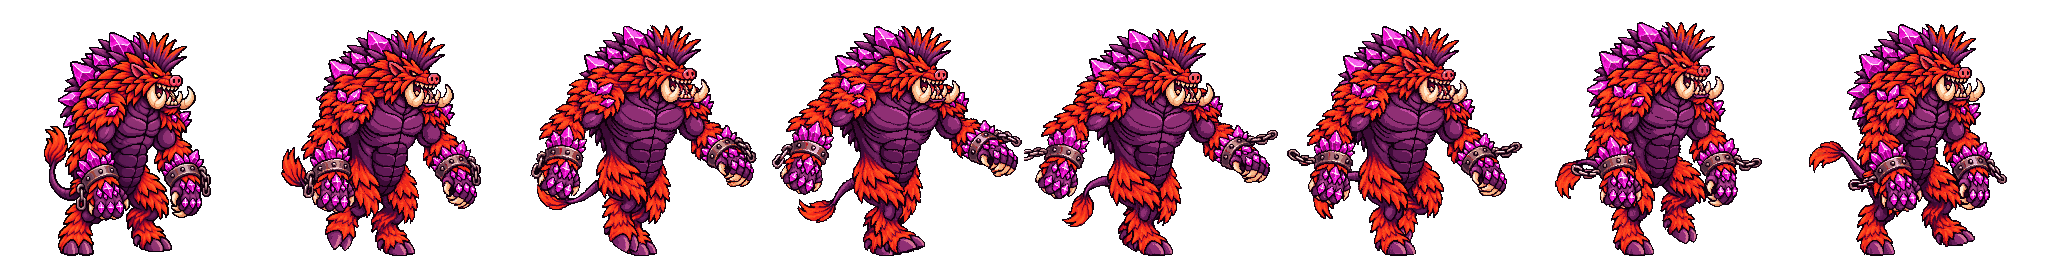
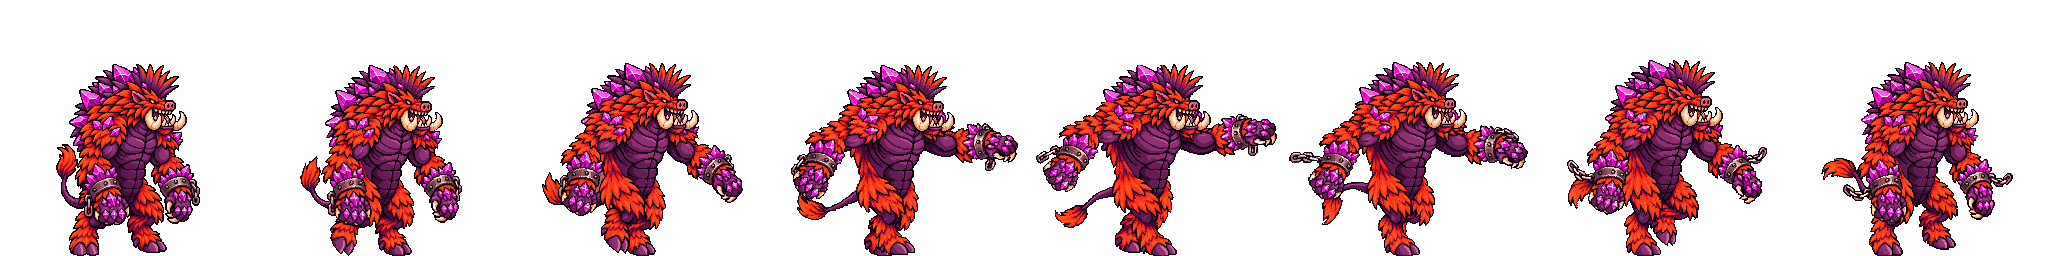
Widen Kaiban Stage 3 swagger: front fist near-horizontal, back fist far behind
The swing was capped by PixelLab's 256px frame: the old strip already
touched both edges at full size. This one is generated from a smaller
144x192 re-sample of the render (x=56, scale 144/256, anchor 128) so the
fists have room: the front fist swings up to nearly horizontal ahead of
the snout and the back one well behind the hip, about 30% more reach
relative to the body, without clipping and holding the three-quarter
view. Drawn at the same size as the idle. Frames 1-3 bottom-aligned
(3px), fill_pinholes filled 60px.

Claude-Session: https://claude.ai/code/session_01SJ9dCw3Kwpo6mPYRbXH7ph

diff --git a/src/presentation.ts b/src/presentation.ts
@@ -53,11 +53,14 @@ const KB2_NATIVE={scale:200/256,anchor:28+128*200/256};
 const KB2_LEFT={scale:200/256,anchor:4+128*200/256};
 // Kaiban Stage 3 strips: the kaiban-s3 base still, a 167x224 upright sprite at x=44 in a 256x256 frame (tall, so raised fists fit).
 const KB3_NATIVE={scale:167/256,anchor:44+128*167/256};
+// Kaiban Stage 3 wide-swing strips: generated from a smaller re-sample of the same render (144x192 at x=56) so swinging fists have
+// room inside PixelLab's 256px frame; drawn at the same size as the full base, so their pixels are about 16% chunkier.
+const KB3_SMALL={scale:144/256,anchor:56+128*144/256};
 // Kaiban Stage 3 form (upright crystal-maned juggernaut with shackled, crystal-studded fists), in progress: idle (breathing, fists and
-// broken chains swaying, tail flicks) and walk (a swagger: fists swing far out front and behind, shoulders roll, chains whip; feet bottom-aligned).
+// broken chains swaying, tail flicks) and walk (a swagger: the front fist swings up to nearly horizontal ahead of the snout, the back fist far behind the hip, shoulders roll, chains whip; feet bottom-aligned).
 // Every other move holds the idle while gameplay timing falls back to the base form. 80 units wide keeps the 167x224 art about 300px
 // tall at the 2.8x Stage 3 scale, a little taller than Mogurodon's Stage 3 since he stands upright.
-const KAIBAN_S3:Form={width:80,anims:{idle:{src:'assets/kaiban-s3-idle.png',frames:8,fps:8,...KB3_NATIVE},walk:{src:'assets/kaiban-s3-walk.png',frames:8,fps:10,...KB3_NATIVE}}};
+const KAIBAN_S3:Form={width:80,anims:{idle:{src:'assets/kaiban-s3-idle.png',frames:8,fps:8,...KB3_NATIVE},walk:{src:'assets/kaiban-s3-walk.png',frames:8,fps:10,...KB3_SMALL}}};
 // Kaiban Stage 2 form, in progress: idle, walk, the heavy, the gorilla overhead-punch light combo (near-fist hammer, far-fist hammer while
 // the near fist stays planted, reared double-fist smash; frame counts and fps match the Stage 1 combo), ranged scoop, grab/carry/throw, the climb set and the Stampede. `borrow`: every move not drawn yet plays the
 // Stage 1 strip.

diff --git a/README.md b/README.md
@@ -61,7 +61,7 @@ Score is earned points minus actual HP damage penalty, including healed damage. 
 
 **Kaiban Stage 2 art (in progress, registered as `stages[2]`):** `kaiban-s2.png` is a 200x135 base at x=28 (scale 200/256, anchor 128), with `kaiban-s2-idle`/`kaiban-s2-walk` 8-frame loops and the climb set. The light combo is gorilla-style overhead punching, 8-frame 256x192 strips generated with PixelLab from the base shifted 24px left (sprite at x=4, so draw with scale 200/256, anchor 4+128*200/256 = 104) so the forward slams stay in the frame, each ending on that base pose: `kaiban-s2-light1` rears up, swings the near fist overhead and hammers it into the street in front of the snout (impact arc on frame 3, 24 fps); `kaiban-s2-light2` keeps the near fist planted while the far fist comes up behind the head and drops in front of it (dust burst on frame 5, 21 fps; seed 7, the default seed left the arm floating over the back); `kaiban-s2-light3` stands up on the hind legs and double-fist smashes both fists down (dust and streaks on frame 5, 20 fps). Each strip got `fill_pinholes.py`, `remove_specks.py` (MAX 40) and the trailing dust bits off the last frame. The heavy is a tusk uppercut, keeping Stage 1's gore rather than repeating light3's fist smash: one 16-frame generation (seed 7) from the same left-shifted base, ending on it, is cut into `kaiban-s2-heavy-rear` (frames 0-4: hunches low with both fists cocked back, 5 frames at 20 fps) and `kaiban-s2-heavy-slam` (frames 9-15 plus the base: lunging tusk uppercut, slash arc on the first three frames, 8 frames at 16 fps), and `kaiban-s2-heavy-hold` is a 4-frame shudder loop (with breath puffs, 10 fps) generated from the rear's last frame. Timing matches the Stage 1 heavy, so combat is unchanged; rear/slam got `fill_pinholes.py` and `remove_specks.py` MAX 40, the hold MAX 4 so the breath puffs survive. The ranged `kaiban-s2-ranged-stand` (same shifted base, closed on it, seed 7) is a gorilla underhand scoop for the Debris Shotgun: a short lean, then he rises and digs both fists into the street (rubble in the fists on frame 4), heaves them up and forward to fling it on impact frame 5 (18 fps, Stage 1's timing), follows through and settles onto all fours; every detached rock on frames 5-7 was erased (largest shape kept) since the game draws the projectiles, then `fill_pinholes.py` and `remove_specks.py` (MAX 40). The crouched shot still borrows Stage 1's. The jump (unshifted base, `KB2_NATIVE`, seed 7) is `kaiban-s2-jump-rise` (9 frames: crouches on the knuckles and springs off all fours, 24 fps), `kaiban-s2-jump-air` (frames 1-4 of a loop generated from the rise's last frame with it as the end pose, tucked limbs, 8 fps) and `kaiban-s2-jump-land` (5 frames from the same airborne pose to the base: fists-first squash, 20 fps); all bottom-aligned with `bottom_align.py`, then `fill_pinholes.py` and `remove_specks.py` (MAX 40, the landing dust). Grab/carry/throw are 256x256 strips (the base padded to 256 tall with the feet on the bottom row, so `KB2_NATIVE` still lines up) since the overhead lift reaches the top of the frame, all generated without any object: `kaiban-s2-grab` (9 frames, 22 fps, seed 0) dips with the fists at the street, rises onto the hind legs and presses both fists straight up overhead; `kaiban-s2-carry` (4-frame loop from the grab's last frame, closed on it) stands upright straining with the fists up; `kaiban-s2-carry-walk` (8-frame loop, closed the same way) lumbers forward upright on the hind legs; `kaiban-s2-throw` (8 of 9 generated frames, the near-duplicate frame 1 dropped so the swing arcs land on frame 1 as the prop launches on the key press) whips both arms forward and down and drops back onto all fours, ending on the base pose. `hold` points: frames 0-3 of the grab keep the prop on the street in front of the near fist, then they sit on top of the fists. Each strip got `fill_pinholes.py` and `remove_specks.py` (MAX 40). The climb set (256x256, generated from the base dropped into a 256x256 frame) clings upright with the fists gripping the wall line at frame x=168 (the 24-unit hitbox edge at this scale), feet braced on the wall and the snout and tusks up: `kaiban-s2-climb-grab` rears up and jumps onto the wall (seed 5; earlier prompts reached the arms straight out, too wide for the wall line, or hid the face behind an overhead arm), `kaiban-s2-climb` is a hand-over-hand loop closed on the cling pose, `kaiban-s2-climb-punch` draws the near fist back off the wall and drives it in with a smear on impact frame 5, and `kaiban-s2-climb-mantle` hauls over onto the roof and ends on the base pose. PixelLab painted a flat tan wall on the grab, erased by its wall-only colours plus the edge line and band pixels not connected to the body, with the claw shading (which shares the wall's tans) restored left of each row's rightmost body pixel; the later strips drew no wall. The cling pose was generated 37px up the wall, so the climb and punch frames are shifted 53px left onto the wall line and 21px down (as far as the lowest climb step allows), the grab eases into that from the unshifted base pose, and the mantle starts a further 24px back (the game's 0.3-body-width roof slide) easing to 0 by its last frame. Frame counts and fps match Stage 1; every strip got `fill_pinholes.py` and `remove_specks.py` (MAX 40). The Stampede Ultimate is gorilla-style too: `kaiban-s2-ult-roar` (256x256, the base padded to 256 tall like the grab so `KB2_NATIVE` lines up) rises onto the hind legs, fists to the chest, throws the head back and bellows on impact frame 5 (the bellow blast), then drops onto all four knuckles in a low head-down charge stance (9 of a 16-frame generation, frames 0-3,5,7,9-11, 14 fps); `kaiban-s2-ult-pound` is the charge loop, a goring gorilla gallop: head dropped to tusk level with the tusks thrust forward while both arms plant on the knuckles, the body vaults over them and the hind legs swing through, lifting only for the gather (frames 2-8 of a 12-frame generation from the native base, seed 4, which repeats with an exact 7-frame period; prompted with the legs landing close behind the hands, since a long stretched stride ran off the 256px frame), 7 frames at 20 fps, a quick 0.35s stride to keep pace with the faster Stage 2 charge. Both got `fill_pinholes.py` and `remove_specks.py` (MAX 40). The crouch (unshifted base, `KB2_NATIVE`) is `kaiban-s2-crouch-down` (5 frames, seed 7: bends the elbows and knees and drops the chest low on all four knuckles, 135px tall to 110px, 22 fps), `kaiban-s2-crouch` (a 4-frame breathing loop generated from that last frame with it as the end pose, seed 7, 6 fps) and `kaiban-s2-crouch-up` (crouch-down reversed); `fill_pinholes.py` and `remove_specks.py` (MAX 40) on each. `kaiban-s2-ranged-crouch` is the crouched Debris Shotgun scoop: 8 frames at 20 fps (seed 21) from the crouch's first frame shifted 24px left (`KB2_LEFT`), with that pose as the end frame. He stays low (122px at the peak, under the 135px standing pose), rakes both fists into the street on frames 2-3, flicks the rubble forward along the ground on impact frame 4 and drops back into the crouch. Loose rocks erased with `remove_specks.py` (MAX 400), then `fill_pinholes.py`. The Stage 2 form (`KAIBAN_S2` in `src/presentation.ts`, anchors `KB2_NATIVE`/`KB2_LEFT`) sets `borrow: true`: any move it has no strip for plays the Stage 1 strip instead of the form's idle, so every move animates while the set is filled in (the art mixes Stage 1 and Stage 2 designs until then). Stage 3 points at the same form until it gets its own art. Add new Stage 2 strips to `KAIBAN_S2.anims`.
 
-**Kaiban Stage 3 art (just started, registered as `stages[3]`):** `kaiban-s3.png` is the upright crystal-maned form, a 167x224 base at x=44 in a 256x256 frame (scale 167/256, anchor 98.5; the tall frame leaves headroom for raised fists). The render's pixel grid is 5.375px square; it was median-sampled down to 224 rows. `kaiban-s3-idle` (8 frames, 8 fps) and `kaiban-s3-walk` (8 frames, 10 fps) are 256x256 PixelLab strips generated from the base with it as first and last frame so they loop, then fill_pinholes/remove_specks; the walk's lifted frames 1-3 were bottom-aligned (4px). Form width 80 (about 300px tall at Stage 3); every other move holds the idle and borrows the base form's timing until its strip exists.
+**Kaiban Stage 3 art (just started, registered as `stages[3]`):** `kaiban-s3.png` is the upright crystal-maned form, a 167x224 base at x=44 in a 256x256 frame (scale 167/256, anchor 98.5; the tall frame leaves headroom for raised fists). The render's pixel grid is 5.375px square; it was median-sampled down to 224 rows. `kaiban-s3-idle` (8 frames, 8 fps) and `kaiban-s3-walk` (8 frames, 10 fps) are 256x256 PixelLab strips generated from the base with it as first and last frame so they loop, then fill_pinholes/remove_specks; the walk's lifted frames were bottom-aligned. The walk is a wide-swing swagger generated from a smaller 144x192 re-sample of the render at x=56 (scale 144/256, anchor 128), since a full-size swing doesn't fit PixelLab's 256px cap; it draws at the same size as the idle with slightly chunkier pixels. Form width 80 (about 300px tall at Stage 3); every other move holds the idle and borrows the base form's timing until its strip exists.
 
 **Per-stage forms:** `SPRITES[name]` is the base form (for Mogurodon, the art above is its Stage 2 design, also used for Stage 3); `stages[n]` overrides it for one stage. Inside a stage form a missing strip falls back to that form's own `idle`, while gameplay timing (`animDuration`/`animImpact`) borrows the base strip's, so combat is unchanged until a form's strips are animated. Mogurodon Stage 1 (`assets/mogurodon-s1.png`) is the transparent render keyed with `tools/key_render.py` (grid 9.30x9.095 px per art pixel): a 151x113 native sprite at x=52, feet on the bottom row of a 256x192 frame. All 25 Stage 1 strips are generated from it with PixelLab and registered with `S1_NATIVE` (scale 151/256, anchor 127.5); frame counts, fps and impact frames match the previous art. The old padded bases (`mogurodon-s1-pad.png`, `mogurodon-s3-pad.png`) and `S1_PAD` are gone. Moves: idle and walk loops; light combo near (left) paw swipe, far (right) paw swipe (prompted with the near leg pinned so the far paw rises behind the head and slashes across) and lunge-bite; heavy rear/slam cut from one 16-frame generation (rear 0-4, slam 8-15) plus a hold loop from the peak; no tail, so the ranged shot arches the back like a hissing cat with the quills bristling (standing and crouched); crouch down/loop/up; jump rise, a 4-frame airborne gallop (frames 1-4 of its generation) and landing; Seismic Rupture howl (9 of 17 frames, 0,2,3,6,9,12,13,14,16, crash with the dust burst on impact frame 5) and a two-paw pound loop; climb with the gripping paws on the wall line at frame x=158 (PixelLab painted a thin brown post at x=215, erased with `post.py`-style column detection since the paws cut it into short pieces; the mantle starts 18px back and eases to 0); grab, carry and carry-walk with per-frame `hold` points (grab frame 7 holds at the forward paws mid-lift) and a throw generated without any object. Gold eye restored against the base plus crouch, heavy-peak and Ultimate-pose references; the reared carry pose tips the head back behind the arms, so carry frames have no eye. Add strips to `stages[1].anims`. Mogurodon Stage 3 (`assets/mogurodon-s3.png`) is the transparent render keyed with `tools/key_render.py`, which measures the render's real pixel grid (about 8.055x7.77 px per art pixel, offset) and keys by alpha, so the sprite keeps its outline and comes out at native resolution: 173x134 at x=41, feet on the bottom row of a 256x192 frame. Every Stage 3 strip is generated from it with PixelLab and registered with `S3_NATIVE` (scale 173/256, anchor 127.5) so it draws at the old width and foot position; frame counts, fps and impact frames match the previous art, so combat timing is unchanged. (The previous base was keyed from a black-background render by brightness on an assumed 8px grid, which ate the outline and joint creases and doubled pixels unevenly; every strip inherited the gaps.) Idle and walk are loops closed with the base as first and last frame. Light combo: near-arm (left) strike with a short pink streak, swipe with the other arm: the arm hanging against the chest winds back behind the body, arcs over and slashes forward past the snout with a pink arc while the leading arm stays put (generated with the base as the last frame so it settles back; earlier versions swung the leading arm again with a floating extra fist behind the head), low lunge-bite. Heavy: one 17-frame rear-and-slam generation cut into `heavy-rear` (frames 0-4) and `heavy-slam` (frames 8-14 and 16: crash with dust and crystal shards, settle), plus a 4-frame `heavy-hold` from the peak pose (re-rolled: a "trembling" prompt scattered dark specks). The reared peak touches the top of the 192px frame. Jump: rise, 4-frame air loop from its last frame and landing, bottom-aligned, landing debris stripped. Ranged: tail whips over the back; the detached shard PixelLab drew (it flew backwards) is erased since the game draws the projectile; the crouched shot flicks the tail while staying flat. Crouch: crouch-down, breathing loop from its last frame, crouch-up = crouch-down reversed. Climb (256x256): PixelLab paints a wall even when told not to; `tools/remove_wall.py` and a wall-line pass erase it, and the wall frames are shifted so the gripping claws sit on the wall line at frame x=162 (hitbox edge, 24 world units from the origin). The mantle starts a further 21px back (the game slides him 0.3 body widths onto the roof) and eases to 0 by its base-pose last frame. Ultimate: the roar is 8 of a 17-frame generation (frames 0,1,2,4,9,11,13,16) so the crash into the crystal eruption lands on impact frame 5; the 16-frame pound loop slams the near claw then the far claw with dust and sparks. Grab/carry/throw: the grab scoops then rears with both claws overhead (a rock PixelLab drew in frame 1 is erased); carry and carry-walk loop from its last frame and the throw ends on the base pose. Grab, carry and carry-walk have per-frame `hold` points measured on the fists. PixelLab washes the gold eye out after frame 0, so `tools/fix_eye.py` restores it against the base and, for frames it cannot match, against wide-search references for the crouch, carry and heavy-peak poses; `--max-err 9000` skips frames where the head is turned or hidden (grab scoop frames 2-5, the upright roar, the head-down pound loop). Every strip then gets `fill_pinholes.py` and `remove_specks.py`. Request PixelLab frame counts in multiples of 4 (the strip gets the input frame plus that many). Add further strips to `stages[3].anims`. `tools/prep_form_base.py` keys a black-background render and fits it into a frame for that.
 
